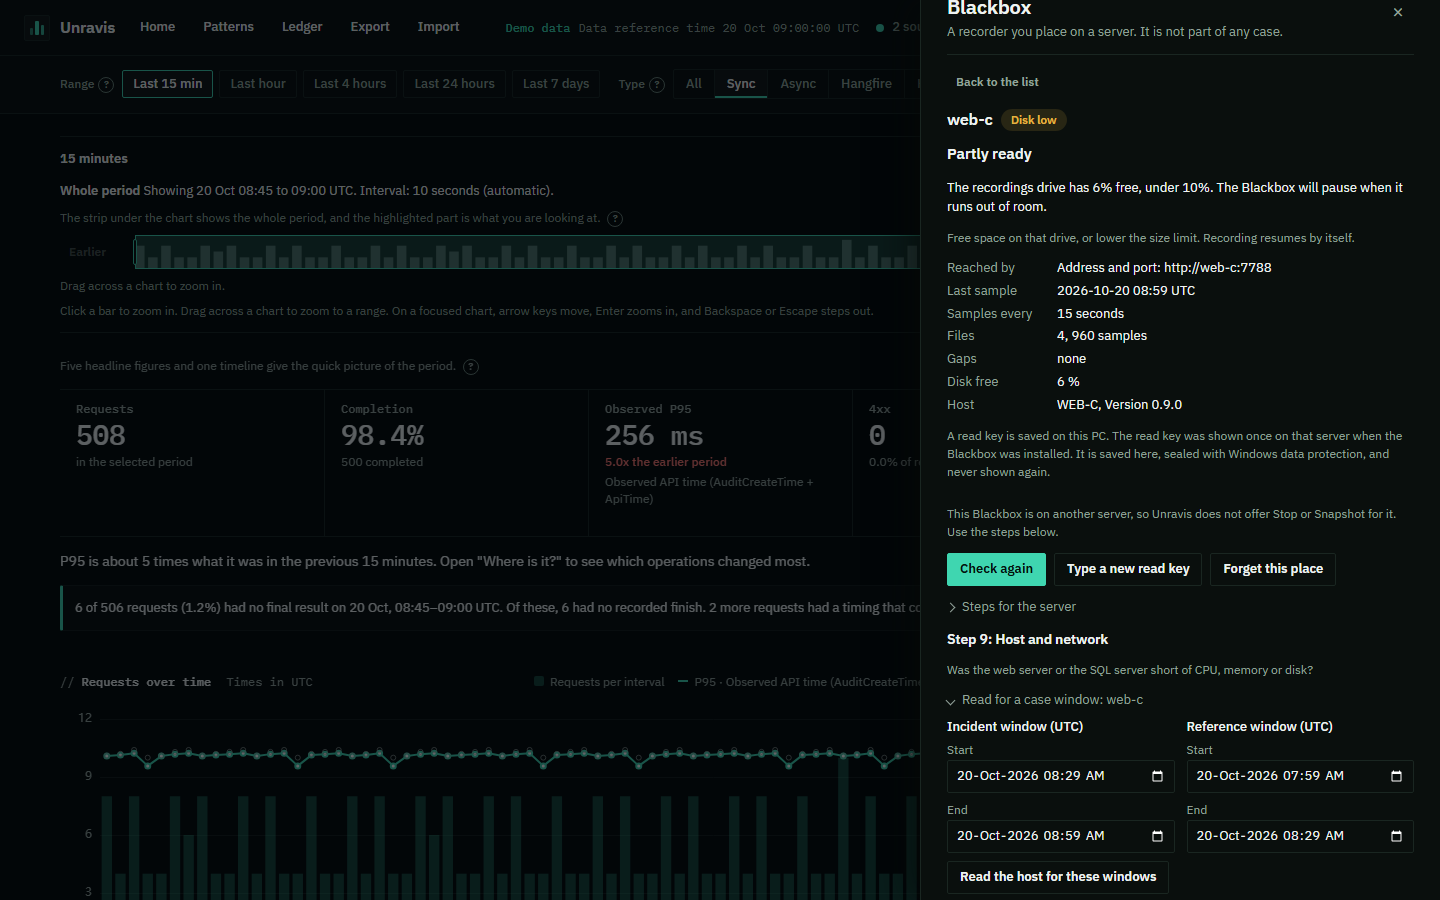
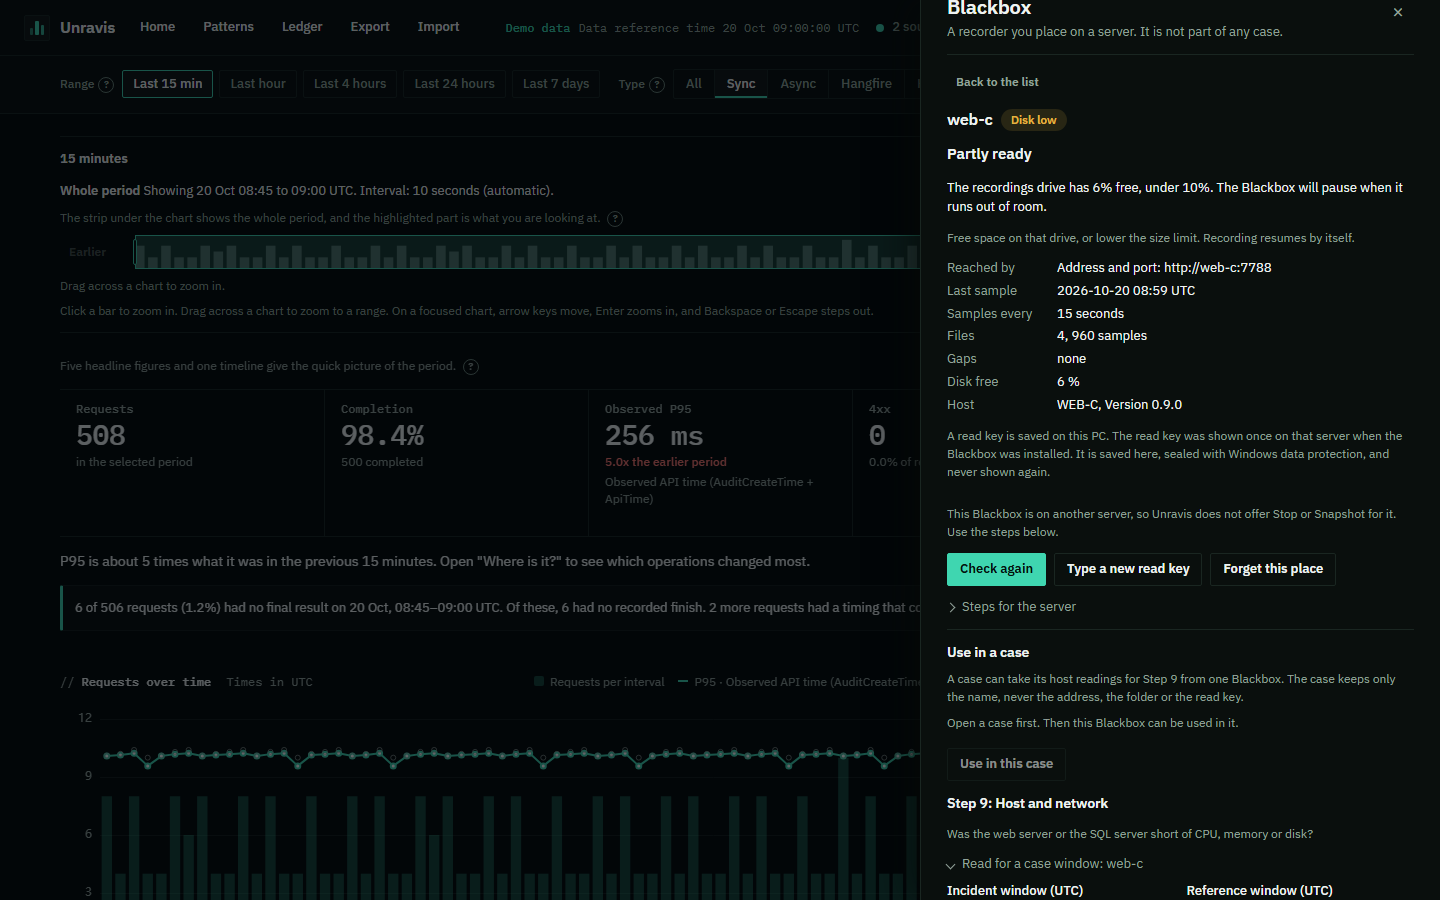
P9: new screen baselines with the Use in this case and read key rows

Changed region(s): [[0.6562, 0.6844, 0.9688, 0.9956], [0.8438, 0.84, 0.9375, 0.8711]]

diff --git a/buildout/docs/blackbox.md b/buildout/docs/blackbox.md
@@ -53,7 +53,7 @@ Add checks the place first and reports one of the states below. Adding the same 
 
 ## States
 
-Screens in this part: `p9-state-running`, `p9-state-running-late`, `p9-state-stopped`, `p9-state-disk-low`, `p9-state-clock-differs`, `p9-state-not-found`, `p9-state-unreachable`, `p9-state-incomplete`, `p9-state-not-placed`.
+Screens in this part: `p9-state-running`, `p9-read-key`, `p9-state-running-late`, `p9-state-stopped`, `p9-state-disk-low`, `p9-state-clock-differs`, `p9-state-not-found`, `p9-state-unreachable`, `p9-state-incomplete`, `p9-state-not-placed`.
 
 Every Blackbox is in one of nine states. The sticker carries the word, and the readiness word is what a case step says: **Ready**, **Partly ready** or **Cannot test yet**. A sticker is never colour alone.
 
@@ -71,6 +71,11 @@ Every Blackbox is in one of nine states. The sticker carries the word, and the r
 
 ![State Running, web-a, dark](../screenshots/P9/p9-state-running-dark.png)
 ![State Running, web-a, light](../screenshots/P9/p9-state-running-light.png)
+
+The Blackbox on this PC also shows its read key, masked. **Show** reveals it for 30 seconds and **Hide** puts it away at once. **Copy** puts it on the clipboard without showing it. This is for giving the key to another PC's Unravis. The demo key in the picture is made up.
+
+![The read key of web-a shown, dark](../screenshots/P9/p9-read-key-dark.png)
+![The read key of web-a shown, light](../screenshots/P9/p9-read-key-light.png)
 
 ![State Running late, web-b, dark](../screenshots/P9/p9-state-running-late-dark.png)
 ![State Running late, web-b, light](../screenshots/P9/p9-state-running-late-light.png)
